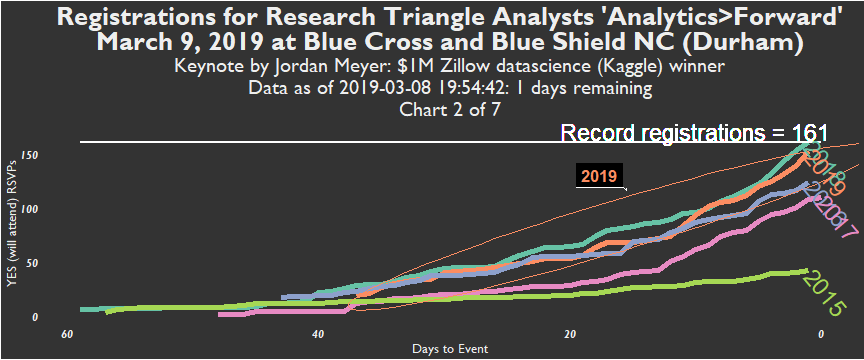
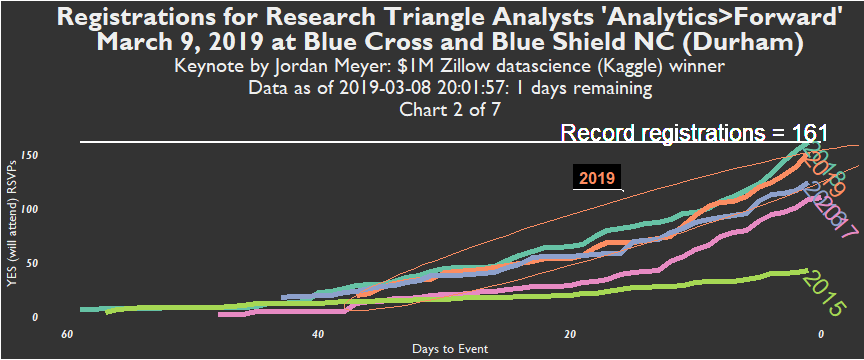
show start date for Meetup registrations per year

diff --git a/README.md b/README.md
@@ -50,31 +50,31 @@ Highest Performing Days (Registrations)
 
 ### All years - 5 Highest Performing Days
 
-| name                                                                  | Registration\_Date | Weekday |  Registration\_Count|
-|:----------------------------------------------------------------------|:-------------------|:--------|--------------------:|
-| Analytics&gt;Forward 2019                                             | 2019-01-31         | Thu     |                   19|
-| Analytics&gt;Forward, with Keynote by John Sall, EVP of SAS Institute | 2016-01-29         | Fri     |                   17|
-| Analytics&gt;Forward 2019                                             | 2019-03-08         | Fri     |                   13|
-| Analytics&gt;Forward, with Keynote by John Sall, EVP of SAS Institute | 2016-02-26         | Fri     |                   11|
-| Analytics&gt;Forward, with Keynote by John Sall, EVP of SAS Institute | 2016-03-07         | Mon     |                   11|
-| Analytics&gt;Forward 2018                                             | 2018-03-07         | Wed     |                   11|
-| Analytics&gt;Forward 2018                                             | 2018-03-08         | Thu     |                   11|
+| name                                                                  | Meetup\_Start\_Date | Registration\_Date | Weekday |  Registration\_Count|
+|:----------------------------------------------------------------------|:--------------------|:-------------------|:--------|--------------------:|
+| Analytics&gt;Forward 2019                                             | 2019-01-31          | 2019-01-31         | Thu     |                   19|
+| Analytics&gt;Forward, with Keynote by John Sall, EVP of SAS Institute | 2016-01-29          | 2016-01-29         | Fri     |                   17|
+| Analytics&gt;Forward 2019                                             | 2019-01-31          | 2019-03-08         | Fri     |                   13|
+| Analytics&gt;Forward, with Keynote by John Sall, EVP of SAS Institute | 2016-01-29          | 2016-02-26         | Fri     |                   11|
+| Analytics&gt;Forward, with Keynote by John Sall, EVP of SAS Institute | 2016-01-29          | 2016-03-07         | Mon     |                   11|
+| Analytics&gt;Forward 2018                                             | 2018-01-10          | 2018-03-07         | Wed     |                   11|
+| Analytics&gt;Forward 2018                                             | 2018-01-10          | 2018-03-08         | Thu     |                   11|
 
 ### Current year - 5 Highest Performing Days
 
-| name                      | Registration\_Date | Weekday |  Registration\_Count|
-|:--------------------------|:-------------------|:--------|--------------------:|
-| Analytics&gt;Forward 2019 | 2019-01-31         | Thu     |                   19|
-| Analytics&gt;Forward 2019 | 2019-03-08         | Fri     |                   13|
-| Analytics&gt;Forward 2019 | 2019-02-26         | Tue     |                   10|
-| Analytics&gt;Forward 2019 | 2019-02-27         | Wed     |                    9|
-| Analytics&gt;Forward 2019 | 2019-02-28         | Thu     |                    9|
-| Analytics&gt;Forward 2019 | 2019-03-07         | Thu     |                    9|
+| name                      | Meetup\_Start\_Date | Registration\_Date | Weekday |  Registration\_Count|
+|:--------------------------|:--------------------|:-------------------|:--------|--------------------:|
+| Analytics&gt;Forward 2019 | 2019-01-31          | 2019-01-31         | Thu     |                   19|
+| Analytics&gt;Forward 2019 | 2019-01-31          | 2019-03-08         | Fri     |                   13|
+| Analytics&gt;Forward 2019 | 2019-01-31          | 2019-02-26         | Tue     |                   10|
+| Analytics&gt;Forward 2019 | 2019-01-31          | 2019-02-27         | Wed     |                    9|
+| Analytics&gt;Forward 2019 | 2019-01-31          | 2019-02-28         | Thu     |                    9|
+| Analytics&gt;Forward 2019 | 2019-01-31          | 2019-03-07         | Thu     |                    9|
 
 Total Registrations for Analytics&gt;Forward per year
 -----------------------------------------------------
 
-    ## [1] "As of  2019-03-08 19:50:24"
+    ## [1] "As of  2019-03-08 20:02:12"
 
 | name                                                                  |  Year|  Total\_Registrations|
 |:----------------------------------------------------------------------|-----:|---------------------:|
@@ -82,7 +82,7 @@ Total Registrations for Analytics&gt;Forward per year
 | Analytics&gt;Forward, with Keynote by John Sall, EVP of SAS Institute |  2016|                   124|
 | Analytics&gt;Forward                                                  |  2017|                   110|
 | Analytics&gt;Forward 2018                                             |  2018|                   161|
-| Analytics&gt;Forward 2019                                             |  2019|                   153|
+| Analytics&gt;Forward 2019                                             |  2019|                   152|
 
 Current Year Analytics&gt;Forward Registration Link
 ===================================================
